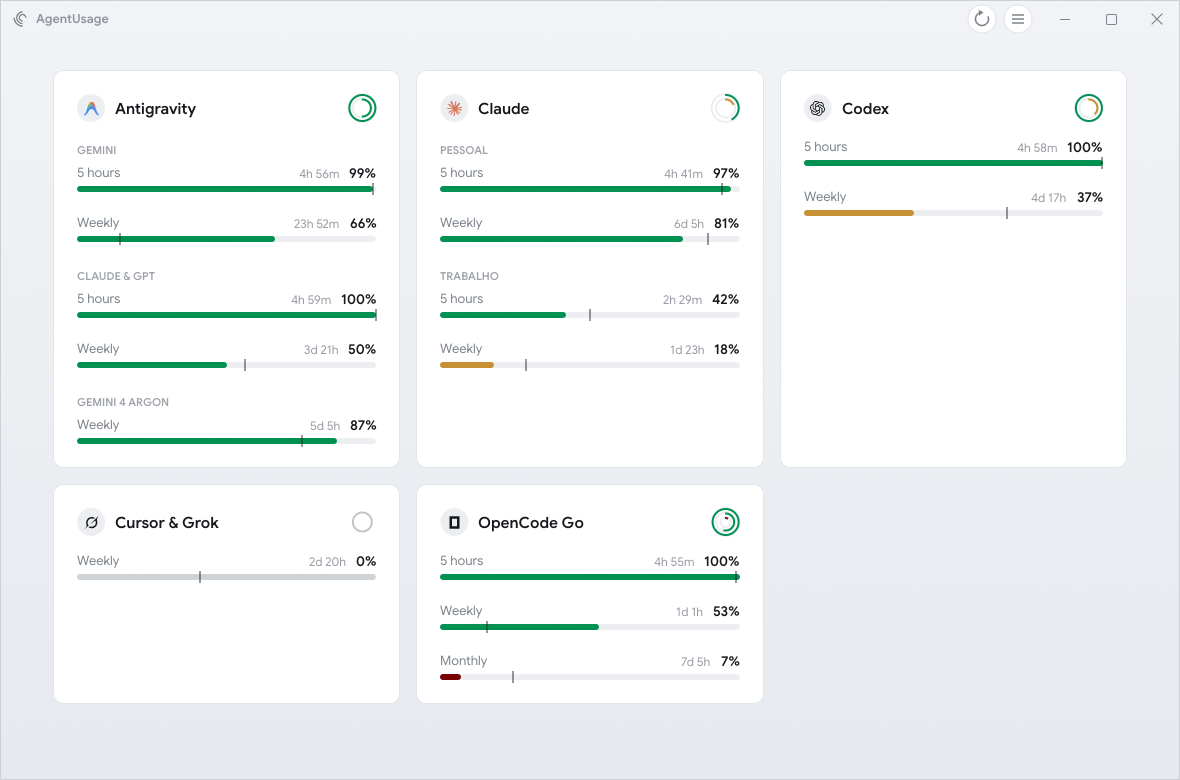
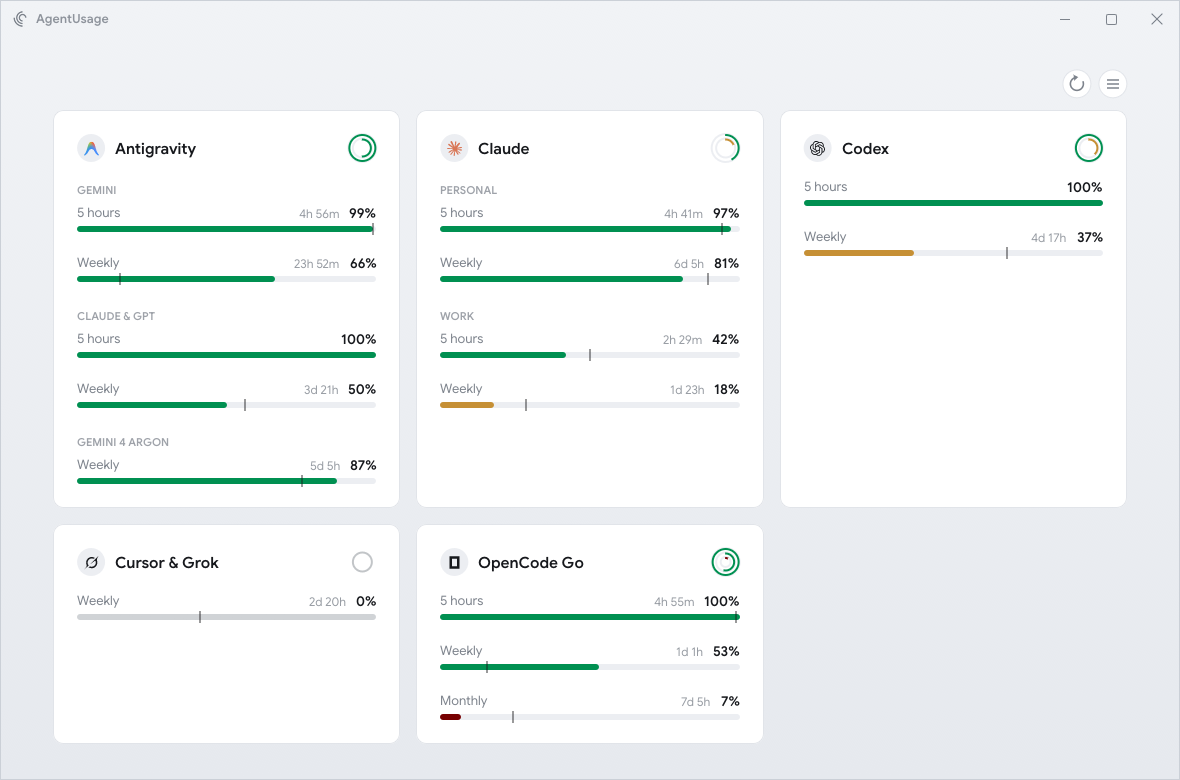
README in English; screenshots retaken from the demo data in English, showing every card

diff --git a/src/demo.rs b/src/demo.rs
@@ -30,7 +30,7 @@ pub fn accounts() -> Vec<Account> {
             "claude-0",
             Provider::Claude,
             None,
-            Some("pessoal"),
+            Some("personal"),
             one(vec![
                 w("5 horas", 0.97, 282, 300),
                 w("Semanal", 0.81, 6 * 1440 + 360, 10_080),
@@ -40,7 +40,7 @@ pub fn accounts() -> Vec<Account> {
             "claude-1",
             Provider::Claude,
             None,
-            Some("trabalho"),
+            Some("work"),
             one(vec![
                 w("5 horas", 0.42, 150, 300),
                 w("Semanal", 0.18, 2 * 1440, 10_080),

diff --git a/src/main.rs b/src/main.rs
@@ -108,6 +108,10 @@ impl App {
         if let Some(l) = args.lang {
             prefs.lang = l;
         }
+        // Screenshots show every card, whatever this machine hides.
+        if args.screenshot.is_some() {
+            prefs.hidden.clear();
+        }
         #[cfg(windows)]
         let tray = if args.screenshot.is_none() {
             tray::install(cc, prefs.lang)

diff --git a/README.md b/README.md
@@ -1,75 +1,81 @@
 # AgentUsage
 
-Painel de desktop, escrito em Rust, que mostra em tempo real quanto ainda resta da cota de cada
-agente de IA: Antigravity, Claude (várias contas), Codex, Cursor & Grok e OpenCode Go.
+A desktop dashboard, written in Rust, that shows in real time how much quota each AI agent has
+left: Antigravity, Claude (several accounts), Codex, Cursor & Grok and OpenCode Go.
 
-![AgentUsage, tema claro](docs/demo-light.png)
+![AgentUsage, light theme](docs/demo-light.png)
 
-## Como ler
+## How to read it
 
-- **Uma linha por janela de cota** (5 horas, semanal, mensal…), sempre em **% restante**,
-  com o tempo até renovar ao lado.
-- **A cor indica o estado:** verde está no ritmo; âmbar pede atenção (pouca cota ou consumo acima do
-  ritmo); vinho fica crítica, abaixo de 10%; cinza está esgotada até renovar.
-- **Menu na barra de título:** idioma (PT-BR, EN-US), tema (sistema, claro, escuro), GitHub e
-  Atualizar, que procura uma versão nova nas releases do repositório. As escolhas ficam salvas.
-- **O risquinho na barra marca o ritmo:** (passe o mouse para ver o estado) é onde a barra estaria com um consumo uniforme até a
-  renovação. Barra à esquerda do risco quer dizer que você está gastando mais rápido que o tempo.
-- Os anéis no canto de cada cartão mostram, de fora para dentro, a janela de horas, a semanal e a mensal (a mais apertada de cada uma).
-- Todas as contas do Claude ficam num cartão só, uma seção por conta.
-- Os detalhes ficam escondidos e aparecem ao passar o mouse: data da renovação e previsão
-  ("acaba em 2h 10m").
-- Atualiza sozinho a cada 60 s; o Claude, a cada 5 min, e espera mais quando o serviço pede.
-  **F5** ou o botão de recarregar na barra de título pedem uma leitura nova dentro desses limites;
-  um sinal de visto confirma quando ela termina.
+- **One row per quota window** (5 hours, weekly, monthly…), always as **% remaining**, with the
+  time until it resets next to it.
+- **Color shows the state:** green is on pace; amber asks for attention (little quota left or
+  usage ahead of pace); wine is critical, below 10%; gray is exhausted until it resets.
+- **Title bar menu:** language (PT-BR, EN-US), theme (system, light, dark), which cards to show,
+  GitHub, and Update, which looks for a new version in the repository's releases. Choices are
+  saved.
+- **The tick on each bar marks the pace:** (hover to see the state) it is where the bar would be
+  with even usage until the reset. A bar left of the tick means you are spending faster than time
+  passes.
+- The rings in the corner of each card show, from outside in, the hours, weekly and monthly
+  windows (the tightest of each).
+- All Claude accounts share one card, one section per account.
+- Details stay hidden and appear on hover: the reset date and a forecast ("runs out in 2h 10m").
+- Refreshes on its own every 20 s; Claude every 5 min, waiting longer when the service asks.
+  **F5** or the reload button in the title bar ask for a fresh reading within those limits; a
+  check mark confirms when it finishes.
+- **Tray icon (Windows):** closing the window keeps the app in the tray. One click on the icon
+  shows or hides the window; its menu has Open and End. Opening the app again brings the open
+  window forward.
 
-![AgentUsage, tema escuro](docs/demo-dark.png)
+![AgentUsage, dark theme](docs/demo-dark.png)
 
-## De onde vêm os dados
+## Where the data comes from
 
-O app lê o login que cada CLI já guarda na sua máquina e consulta somente o serviço do próprio
-fornecedor. Os tokens vão só por HTTPS, sem redirecionamento, ao serviço do próprio fornecedor.
-Quando o login do Claude vence, o app o renova como o próprio Claude Code faz e o grava de volta
-no mesmo arquivo, sem precisar abrir o Claude Code.
+The app reads the login each CLI already keeps on your machine and queries only that vendor's own
+service. Tokens travel only over HTTPS, with no redirects, to the vendor's own service. When the
+Claude login expires, the app renews it the way Claude Code does and writes it back to the same
+file, without having to open Claude Code.
 
-| Agente | Login lido | Consulta |
+| Agent | Login read | Query |
 | --- | --- | --- |
-| Claude | `~/.claude/.credentials.json` (e `~/.claude-*`) | `api.anthropic.com/api/oauth/usage` |
+| Claude | `~/.claude/.credentials.json` (and `~/.claude-*`) | `api.anthropic.com/api/oauth/usage` |
 | Codex | `~/.codex/auth.json` | `chatgpt.com/backend-api/wham/usage` |
 | Cursor & Grok | `%APPDATA%/Cursor/auth.json` | `api2.cursor.sh` (DashboardService) |
 | OpenCode Go | `~/.local/share/opencode` | `opencode.ai/zen/go/v1/usage` |
-| Antigravity | sessão do `agy` | `agy -p /usage --output-format json` (sem gastar tokens) |
+| Antigravity | `agy` session | `agy -p /usage --output-format json` (spends no tokens) |
 
-## Configuração (opcional)
+## Configuration (optional)
 
-`%APPDATA%\agent-usage\config.toml` no Windows (`~/.config/agent-usage/config.toml` no Linux):
+`%APPDATA%\agent-usage\config.toml` on Windows (`~/.config/agent-usage/config.toml` on Linux):
 
 ```toml
-claude_dirs = ["C:/Users/voce/.claude-trabalho"]  # outras pastas de conta do Claude Code
-antigravity = false                                 # desliga a leitura do Antigravity
-refresh_secs = 60
+claude_dirs = ["C:/Users/you/.claude-work"]  # other Claude Code account folders
+antigravity = false                           # turns off the Antigravity reading
+refresh_secs = 20
 ```
 
-## Rodar
+## Run
 
 ```bash
 cargo run --release
 ```
 
-Para ver a interface com dados fictícios, sem login nenhum:
+To see the interface with fictional data, without any login:
 
 ```bash
 cargo run --release -- --demo
 ```
 
-## Instalar no Windows
+## Install on Windows
 
-Compila, copia o app para `%LOCALAPPDATA%\Programs\AgentUsage` e cria o atalho "AgentUsage" na Área de Trabalho e no Menu Iniciar. Rode de novo depois de atualizar o código.
+Builds the app, copies it to `%LOCALAPPDATA%\Programs\AgentUsage` and creates an "AgentUsage"
+shortcut on the Desktop and in the Start menu. Run it again after updating the code.
 
 ```powershell
 powershell -ExecutionPolicy Bypass -File scripts/install.ps1
 ```
 
-## Licença
+## License
 
 MIT
